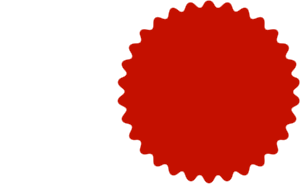
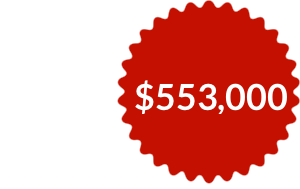
added new pics of values

Changed region(s): [[0.45, 0.4233, 0.96, 0.6085]]

diff --git a/app/assets/stylesheets/money_bags.scss b/app/assets/stylesheets/money_bags.scss
@@ -149,6 +149,10 @@ html, body {
       z-index: 1;
       top: 10px;
       left: 175px;
+
+      .info {
+        color: red;
+      }
     }
 
     .right-info {
@@ -224,6 +228,10 @@ html, body {
 
   .tab-three {
 
+    #current-val {
+      z-index: 0, !important;
+    }
+
     .left {
 
       h1 {
@@ -273,6 +281,7 @@ html, body {
       width: 150px;
       top: 100px;
       left: 200px;
+      // z-index: -1;
     }
 
     .monster-house {
